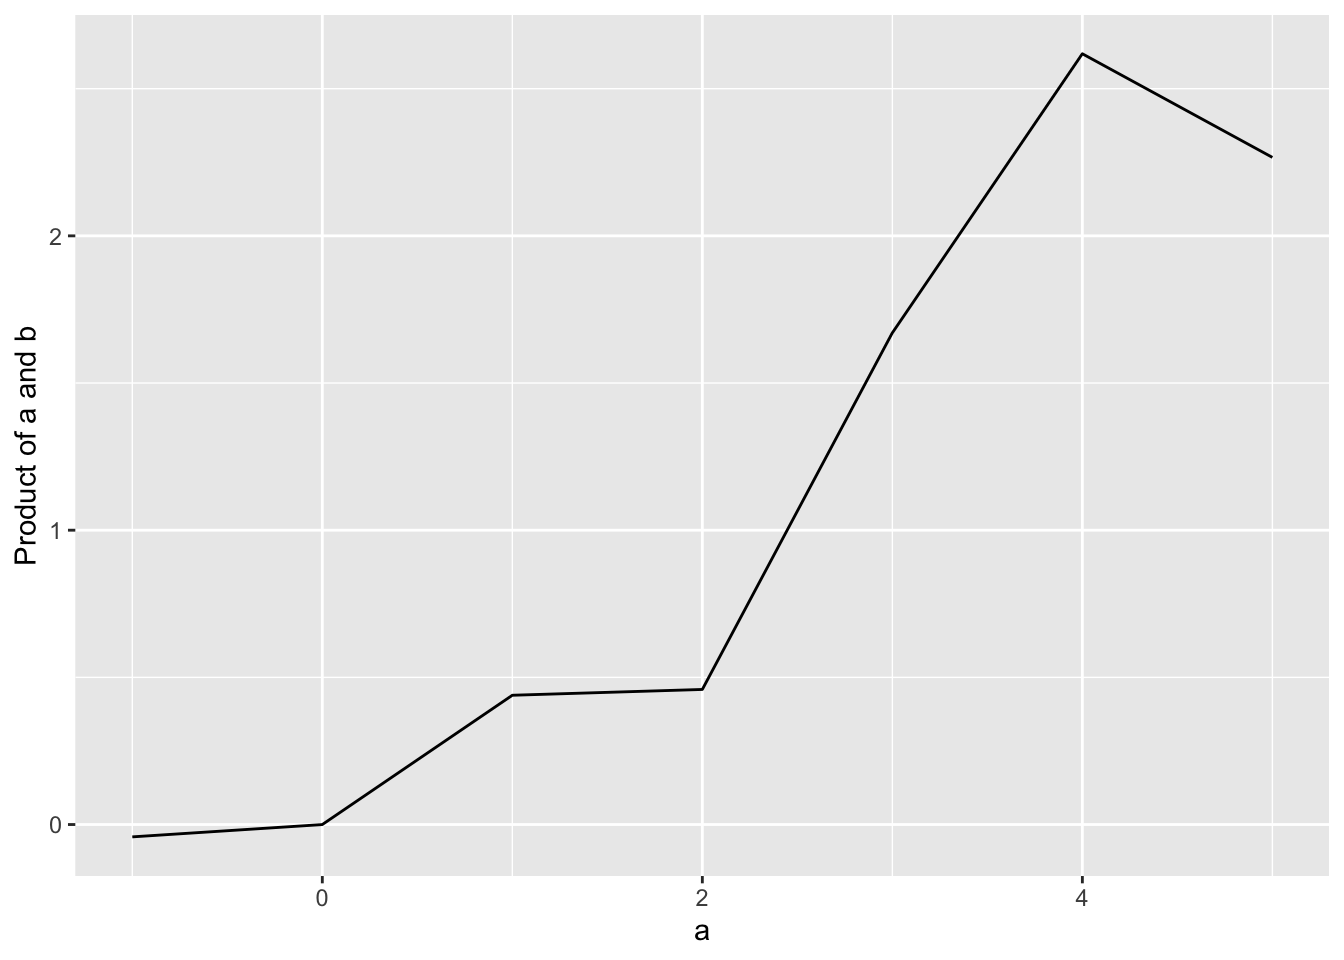
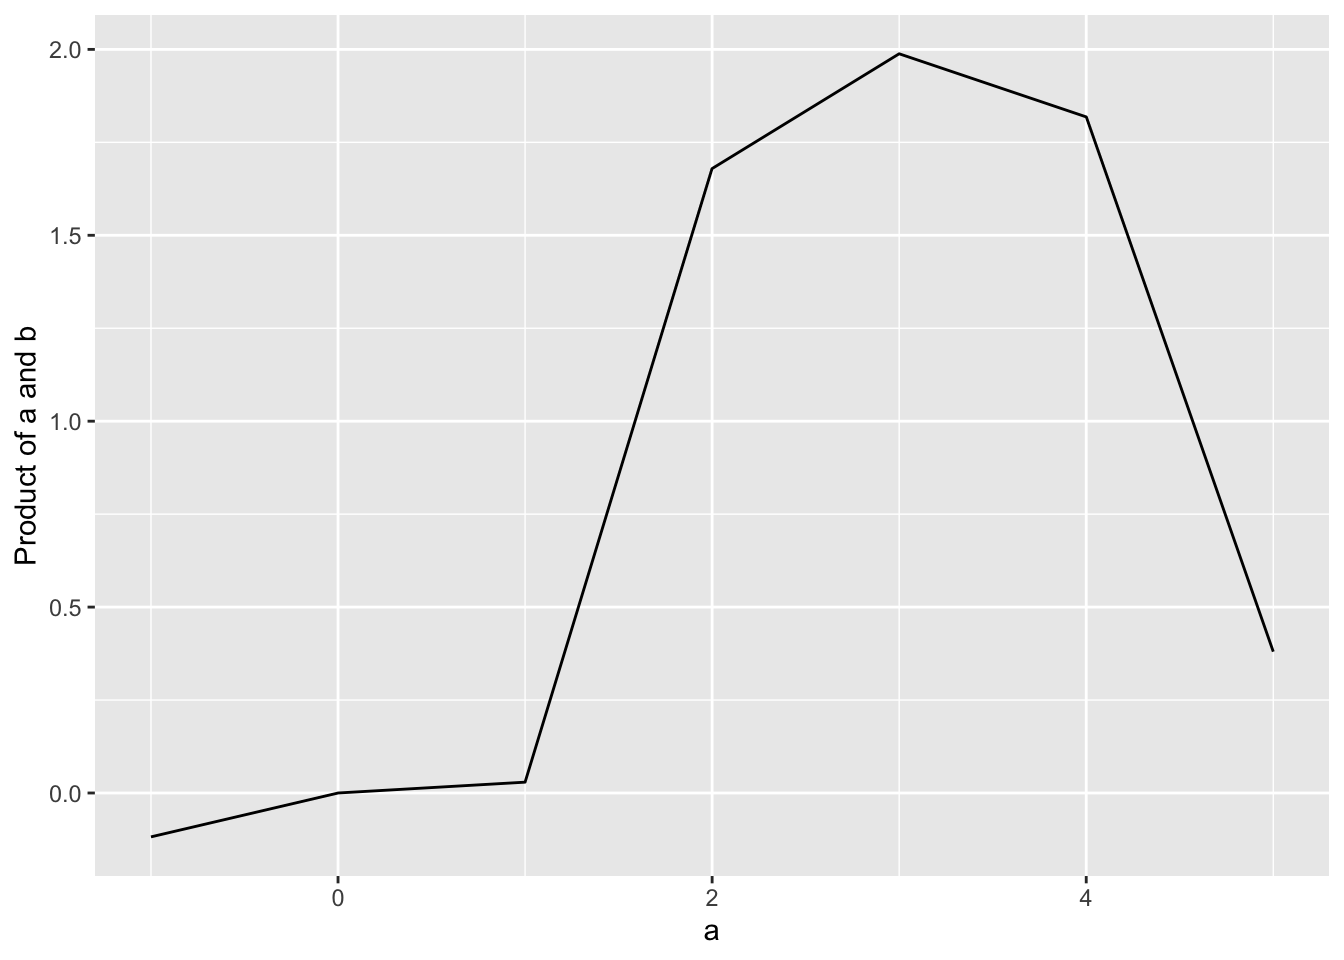
tweak_ch3

diff --git a/docs/01-computer-setup.html b/docs/01-computer-setup.html
@@ -686,7 +686,7 @@ window.Quarto = {
 <div class="code-copy-outer-scaffold"><div class="sourceCode cell-code" id="cb16"><pre class="sourceCode r code-with-copy"><code class="sourceCode r"><span id="cb16-1"><a href="#cb16-1" aria-hidden="true" tabindex="-1"></a>b <span class="ot">&lt;-</span> <span class="fu">runif</span>(<span class="dv">7</span>, <span class="at">min=</span><span class="dv">0</span>, <span class="at">max=</span><span class="dv">1</span>)</span>
 <span id="cb16-2"><a href="#cb16-2" aria-hidden="true" tabindex="-1"></a>b</span></code></pre></div><button title="Copy to Clipboard" class="code-copy-button"><i class="bi"></i></button></div>
 <div class="cell-output cell-output-stdout">
-<pre><code>[1] 0.04191334 0.12602553 0.43922056 0.22951491 0.55683137 0.65466084 0.45332266</code></pre>
+<pre><code>[1] 0.11800968 0.19205693 0.02916493 0.83971265 0.66273855 0.45460258 0.07602446</code></pre>
 </div>
 </div>
 <p>These will differ every time you do this.</p>
@@ -701,12 +701,12 @@ window.Quarto = {
 </div>
 <div class="code-copy-outer-scaffold"><div class="sourceCode cell-code" id="cb20"><pre class="sourceCode r code-with-copy"><code class="sourceCode r"><span id="cb20-1"><a href="#cb20-1" aria-hidden="true" tabindex="-1"></a>b</span></code></pre></div><button title="Copy to Clipboard" class="code-copy-button"><i class="bi"></i></button></div>
 <div class="cell-output cell-output-stdout">
-<pre><code>[1] 0.04191334 0.12602553 0.43922056 0.22951491 0.55683137 0.65466084 0.45332266</code></pre>
+<pre><code>[1] 0.11800968 0.19205693 0.02916493 0.83971265 0.66273855 0.45460258 0.07602446</code></pre>
 </div>
 <div class="code-copy-outer-scaffold"><div class="sourceCode cell-code" id="cb22"><pre class="sourceCode r code-with-copy"><code class="sourceCode r"><span id="cb22-1"><a href="#cb22-1" aria-hidden="true" tabindex="-1"></a>ab</span></code></pre></div><button title="Copy to Clipboard" class="code-copy-button"><i class="bi"></i></button></div>
 <div class="cell-output cell-output-stdout">
-<pre><code>[1] -0.04191334  0.00000000  0.43922056  0.45902983  1.67049412  2.61864337
-[7]  2.26661328</code></pre>
+<pre><code>[1] -0.11800968  0.00000000  0.02916493  1.67942529  1.98821564  1.81841030
+[7]  0.38012228</code></pre>
 </div>
 </div>
 <p>You can confirm at a glance that the first and second elements in <code>a</code> times the first and second elements in <code>b</code> equal the first and second elements in <code>ab</code>.</p>
@@ -720,13 +720,13 @@ window.Quarto = {
 <span id="cb24-2"><a href="#cb24-2" aria-hidden="true" tabindex="-1"></a>d</span></code></pre></div><button title="Copy to Clipboard" class="code-copy-button"><i class="bi"></i></button></div>
 <div class="cell-output cell-output-stdout">
 <pre><code>   a          b   a_times_b
-1 -1 0.04191334 -0.04191334
-2  0 0.12602553  0.00000000
-3  1 0.43922056  0.43922056
-4  2 0.22951491  0.45902983
-5  3 0.55683137  1.67049412
-6  4 0.65466084  2.61864337
-7  5 0.45332266  2.26661328</code></pre>
+1 -1 0.11800968 -0.11800968
+2  0 0.19205693  0.00000000
+3  1 0.02916493  0.02916493
+4  2 0.83971265  1.67942529
+5  3 0.66273855  1.98821564
+6  4 0.45460258  1.81841030
+7  5 0.07602446  0.38012228</code></pre>
 </div>
 </div>
 <p>You could examine the structure of this data frame with <code>str()</code>.</p>
@@ -735,8 +735,8 @@ window.Quarto = {
 <div class="cell-output cell-output-stdout">
 <pre><code>'data.frame':   7 obs. of  3 variables:
  $ a        : int  -1 0 1 2 3 4 5
- $ b        : num  0.0419 0.126 0.4392 0.2295 0.5568 ...
- $ a_times_b: num  -0.0419 0 0.4392 0.459 1.6705 ...</code></pre>
+ $ b        : num  0.118 0.1921 0.0292 0.8397 0.6627 ...
+ $ a_times_b: num  -0.118 0 0.0292 1.6794 1.9882 ...</code></pre>
 </div>
 </div>
 <p>You will also notice now that you can see all of our objects in the Environment pane, in the upper right of RStudio.</p>

diff --git a/docs/03-liana-phys.html b/docs/03-liana-phys.html
@@ -356,12 +356,12 @@ window.Quarto = {
 <li>Investigate reasons for the unreasonable success of lianas.</li>
 <li>Develop and use your understanding of plant growth and responses to water deficits to help make predictions about the relative success of lianas and trees.</li>
 <li>Evaluate scientific hypotheses and predictions by (i) enhancing your data visualization skills using <code>ggplot()</code>, and (ii) making graphs of your own design.</li>
+<li>Background reading:</li>
 </ul>
 </section>
 <section id="background" class="level2" data-number="4.2">
 <h2 data-number="4.2" class="anchored" data-anchor-id="background"><span class="header-section-number">4.2</span> Background</h2>
 <ul>
-<li>Watch videos on responses by organisms to temperature and water <a href="https://drive.google.com/drive/folders/1nWLoEGuWKIWdul9Uvse5qiB1Hf8MCwUv?usp=sharing" target="_blank">(videos 1e and 1f)</a></li>
 <li>Download Smith-Martin et al.&nbsp;(2019), which is available in <a href="https://drive.google.com/drive/folders/1opLlrmF7kfo0FtWwwJ1CbfPWIyuaISC1?usp=share_link" target="_blank">our PDF archive</a>. Read the introduction to help you understand the context of this chapter.</li>
 </ul>
 <p>The term “liana” refers to tropical woody vines, which can be very common and can account for as much as 25% of the woody plant biodiversity in some tropical forests. They achieve some of their highest abundance in seasonal subtropical forests <a href="#fig-lianas" class="quarto-xref">Figure&nbsp;<span>4.1</span></a>. These are regions with distinct wet and dry seasons; why are lianas successful in these seasonal subtropical forests?</p>
@@ -671,7 +671,7 @@ Levels: Mar Apr May Sep Oct</code></pre>
 <p>A. The first document will contain:</p>
 <ol type="1">
 <li>A restatement, in your own words, of the hypothesis of Smith-Martin and her colleagues.</li>
-<li>Two predictions of the hypothesis that you can evaluate using the data we have (see above).</li>
+<li>Two predictions of the hypothesis that you can evaluate using the data we have (see above). You should take pictures of these hand-drawn images, and put them into this document.</li>
 <li>Two graphs done in R that evaluate the hypothesis of Smith-Martin and her colleagues. The variables in the graphs must match the variables in you predictions.</li>
 <li>For each graph, identify the independent variable(s) and the dependent variable(s).</li>
 <li>For each graph, explain what the graph shows and what it tells us about the hypothesis. We can’t draw firm conclusions, so use terms such as “suggests”, “is consistent with”, “seems to show”, or others, which help avoid expressing unwarranted certainty. Even with careful analysis, we always have to be cautious.</li>

diff --git a/docs/04-extrapair_copulation.html b/docs/04-extrapair_copulation.html
@@ -422,7 +422,7 @@ Figure&nbsp;5.1: Voles are small hamster-like rodents that live in grasslands an
 <pre><code>── Attaching core tidyverse packages ──────────────────────── tidyverse 2.0.0 ──
 ✔ dplyr     1.1.4     ✔ readr     2.1.5
 ✔ forcats   1.0.1     ✔ stringr   1.5.2
-✔ ggplot2   4.0.0     ✔ tibble    3.3.0
+✔ ggplot2   4.0.2     ✔ tibble    3.3.0
 ✔ lubridate 1.9.4     ✔ tidyr     1.3.1
 ✔ purrr     1.1.0     
 ── Conflicts ────────────────────────────────────────── tidyverse_conflicts() ──

diff --git a/docs/06-DI-pop-growth.html b/docs/06-DI-pop-growth.html
@@ -487,7 +487,7 @@ Figure&nbsp;6.3: Projecting the size of the duckweed population three weeks into
 <pre><code>── Attaching core tidyverse packages ──────────────────────── tidyverse 2.0.0 ──
 ✔ dplyr     1.1.4     ✔ readr     2.1.5
 ✔ forcats   1.0.1     ✔ stringr   1.5.2
-✔ ggplot2   4.0.0     ✔ tibble    3.3.0
+✔ ggplot2   4.0.2     ✔ tibble    3.3.0
 ✔ lubridate 1.9.4     ✔ tidyr     1.3.1
 ✔ purrr     1.1.0     
 ── Conflicts ────────────────────────────────────────── tidyverse_conflicts() ──

diff --git a/docs/07-structured-pop-growth_v2.html b/docs/07-structured-pop-growth_v2.html
@@ -472,7 +472,7 @@ H&amp;J_s &amp; J_l &amp; sub &amp; B_1 &amp; B_2 &amp; M\\
 <pre><code>── Attaching core tidyverse packages ──────────────────────── tidyverse 2.0.0 ──
 ✔ dplyr     1.1.4     ✔ readr     2.1.5
 ✔ forcats   1.0.1     ✔ stringr   1.5.2
-✔ ggplot2   4.0.0     ✔ tibble    3.3.0
+✔ ggplot2   4.0.2     ✔ tibble    3.3.0
 ✔ lubridate 1.9.4     ✔ tidyr     1.3.1
 ✔ purrr     1.1.0     
 ── Conflicts ────────────────────────────────────────── tidyverse_conflicts() ──

diff --git a/docs/02-global_temp_anomalies.html b/docs/02-global_temp_anomalies.html
@@ -346,7 +346,7 @@ gtag('config', 'G-J0R6F7XN66', { 'anonymize_ip': true});
 <pre><code>── Attaching core tidyverse packages ──────────────────────── tidyverse 2.0.0 ──
 ✔ dplyr     1.1.4     ✔ readr     2.1.5
 ✔ forcats   1.0.1     ✔ stringr   1.5.2
-✔ ggplot2   4.0.0     ✔ tibble    3.3.0
+✔ ggplot2   4.0.2     ✔ tibble    3.3.0
 ✔ lubridate 1.9.4     ✔ tidyr     1.3.1
 ✔ purrr     1.1.0     
 ── Conflicts ────────────────────────────────────────── tidyverse_conflicts() ──
